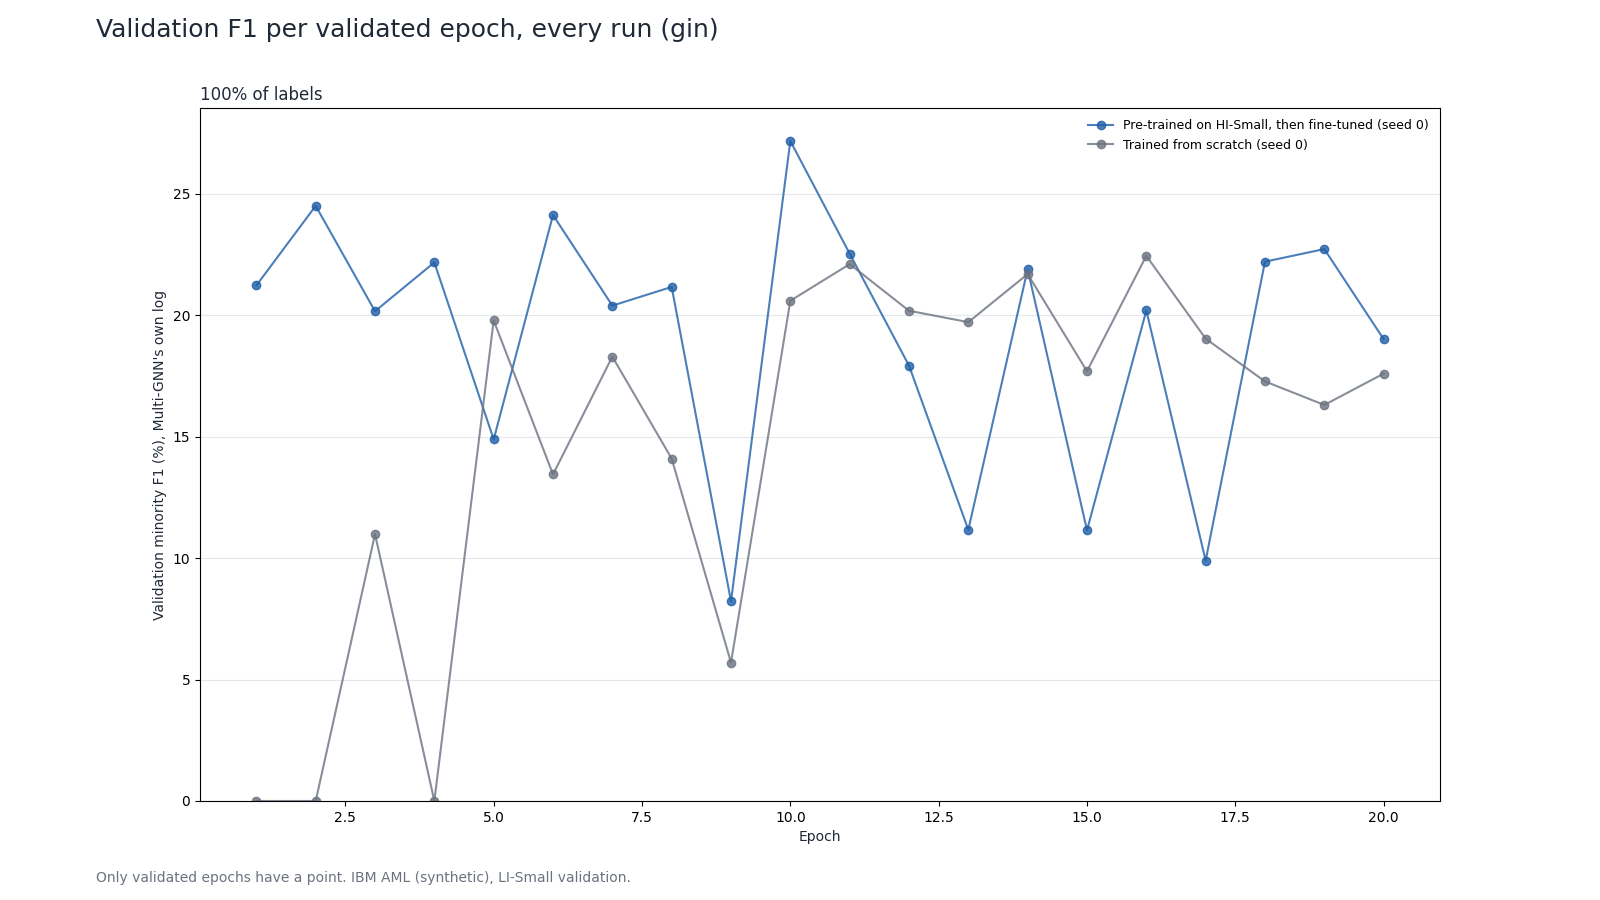
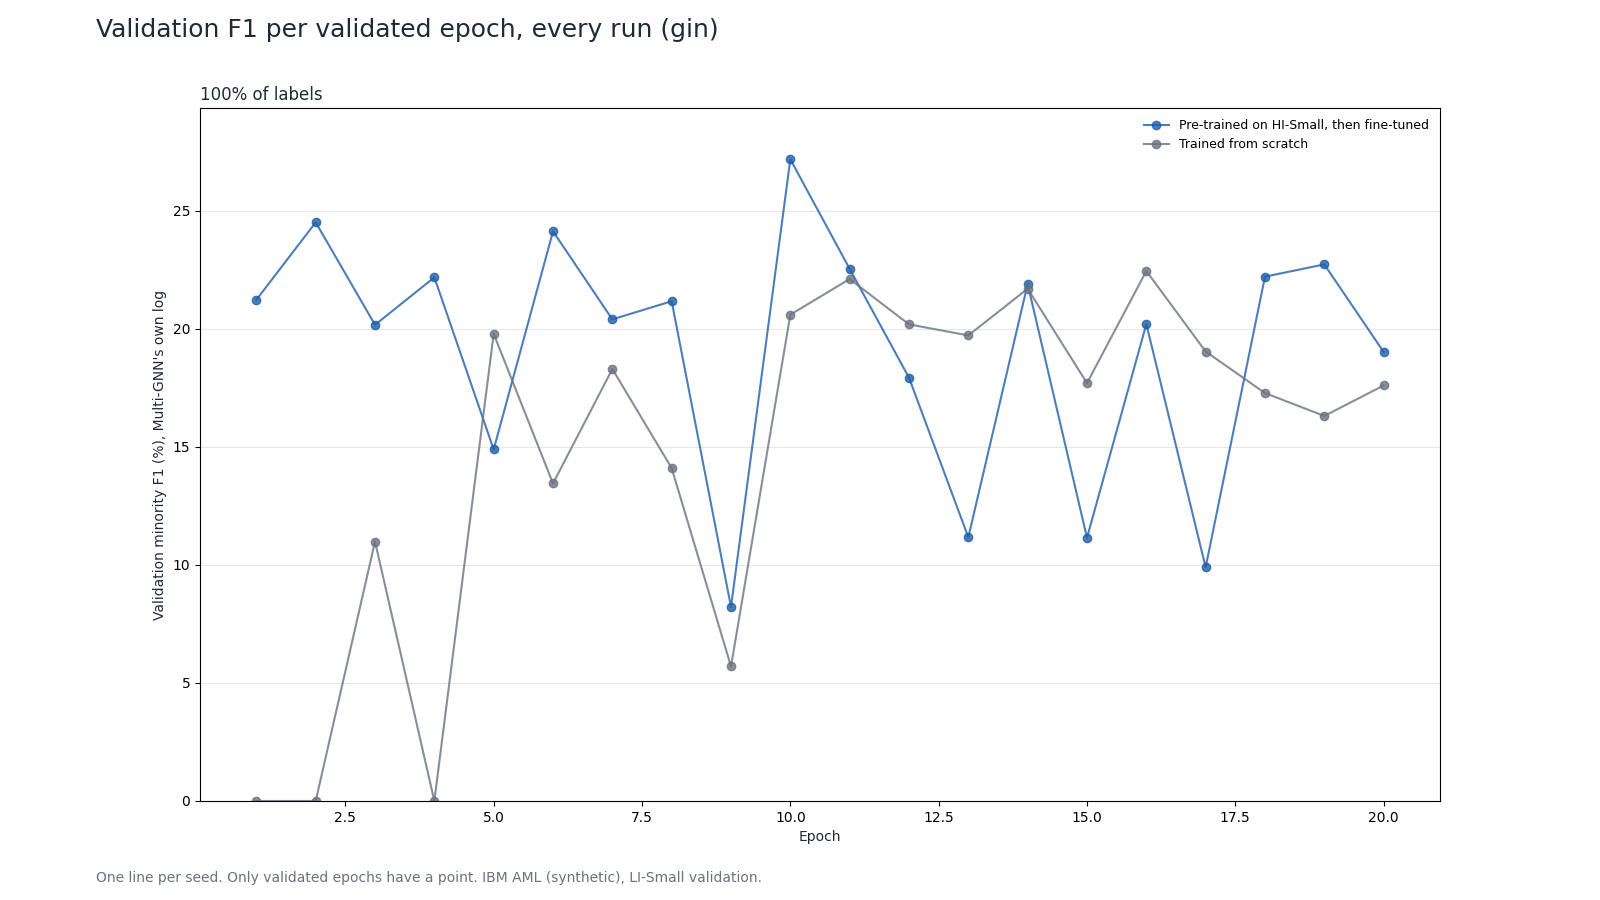
Phase D set up (BUDGET_D=16, 10/25/100%, seed 0); Phase C validation curves rebuilt; fix clipped y-axis in curve chart

diff --git a/tests/test_phases.py b/tests/test_phases.py
@@ -59,8 +59,10 @@ def test_run_counts_per_phase() -> None:
     assert (
         len(phase_runs("phaseC", budget=EXAMPLE_BUDGET)) == 12
     )  # 3 fractions x 2 arms x 2 seeds
-    assert len(phase_runs("phaseD", budget=EXAMPLE_BUDGET)) == 1 + 8  # source + 4 x 2
-    assert len(phase_runs("phaseD", seeds=[0, 1, 2], budget=EXAMPLE_BUDGET)) == 25
+    assert (
+        len(phase_runs("phaseD", budget=EXAMPLE_BUDGET)) == 1 + 6
+    )  # source + 3 fractions x 2 arms
+    assert len(phase_runs("phaseD", seeds=[0, 1, 2], budget=EXAMPLE_BUDGET)) == 1 + 18
 
 
 def test_phase_c_covers_every_fraction_arm_and_seed_once() -> None:
@@ -73,8 +75,9 @@ def test_phase_c_covers_every_fraction_arm_and_seed_once() -> None:
 
 def test_phase_c_and_d_refuse_to_start_while_the_budget_is_not_set(monkeypatch) -> None:
     monkeypatch.setattr(config, "BUDGET_C", None)
+    monkeypatch.setattr(config, "BUDGET_D", None)
     for name in ("phaseC", "phaseD"):
-        with pytest.raises(ValueError, match="BUDGET_C"):
+        with pytest.raises(ValueError, match="BUDGET_"):
             phase_runs(name)
 
 
@@ -87,7 +90,7 @@ def test_phase_d_trains_the_pna_source_model_first_then_the_same_grid() -> None:
     runs = phase_runs("phaseD", budget=EXAMPLE_BUDGET)
     assert runs[0].run_id == "pna_source_f1.0_s0"
     assert {r.model for r in runs} == {"pna"}
-    assert {r.fraction for r in runs[1:]} == set(config.LABEL_FRACTIONS)
+    assert {r.fraction for r in runs[1:]} == set(config.PHASE_D_FRACTIONS)
     assert {r.seed for r in runs} == {0}  # default: one seed
 
 
@@ -145,3 +148,13 @@ def test_phases_that_start_from_the_pilot_source_look_for_it_in_the_pilot_folder
 def test_each_phase_keeps_its_own_records_folder() -> None:
     folders = {phase_folders(n, config.PROJECT_ROOT).records for n in phase_names()}
     assert len(folders) == len(phase_names())
+
+
+def test_phase_d_uses_its_own_budget_and_leaves_phase_cs_alone(monkeypatch) -> None:
+    monkeypatch.setattr(config, "BUDGET_C", 20)
+    monkeypatch.setattr(config, "BUDGET_D", 16)
+    d_runs = phase_runs("phaseD")
+    assert {r.step_budget_epochs for r in d_runs if r.mode != "source"} == {16}
+    assert {r.step_budget_epochs for r in phase_runs("phaseC")} == {20}
+    assert len(d_runs) == 7 and {r.seed for r in d_runs} == {0}
+    assert {r.fraction for r in d_runs if r.mode != "source"} == {0.1, 0.25, 1.0}

diff --git a/src/plot_curves.py b/src/plot_curves.py
@@ -64,10 +64,13 @@ def draw_model(model: str, groups: Dict, path: Path) -> None:
         squeeze=False,
         facecolor="white",
     )
+    highest = 0.0
     for axis, fraction in zip(axes[0], fractions):
         for record, curve in groups[(model, fraction)]:
             xs, ys = [p[0] for p in curve], [100 * p[1] for p in curve]
-            label = SYSTEM_NAMES[record.mode] + " (seed %d)" % record.seed
+            highest = max(highest, max(ys))
+            # One legend entry per system: every seed has its own line.
+            label = SYSTEM_NAMES[record.mode] if fraction == fractions[-1] else None
             axis.plot(
                 xs, ys, marker="o", color=COLOURS[record.mode], alpha=0.8, label=label
             )
@@ -75,12 +78,15 @@ def draw_model(model: str, groups: Dict, path: Path) -> None:
             "%.0f%% of labels" % (100 * fraction), loc="left", color=TEXT_COLOUR
         )
         axis.set_xlabel("Epoch", color=TEXT_COLOUR)
-        axis.set_ylim(bottom=0)
         axis.grid(axis="y", color="#e5e7eb")
+    # Set once for every panel: a limit set inside the loop clipped later panels.
+    axes[0][0].set_ylim(0, highest * 1.08)
     axes[0][0].set_ylabel(
         "Validation minority F1 (%), Multi-GNN's own log", color=TEXT_COLOUR
     )
-    axes[0][-1].legend(frameon=False, fontsize=9)
+    handles, names = axes[0][-1].get_legend_handles_labels()
+    unique = dict(zip(names, handles))
+    axes[0][-1].legend(unique.values(), unique.keys(), frameon=False, fontsize=9)
     figure.suptitle(
         "Validation F1 per validated epoch, every run (%s)" % model,
         x=0.06,
@@ -91,7 +97,8 @@ def draw_model(model: str, groups: Dict, path: Path) -> None:
     figure.text(
         0.06,
         0.02,
-        "Only validated epochs have a point. IBM AML (synthetic), LI-Small validation.",
+        "One line per seed. Only validated epochs have a point. "
+        "IBM AML (synthetic), LI-Small validation.",
         fontsize=10,
         color="#6b7280",
     )

diff --git a/tests/test_collect_plot.py b/tests/test_collect_plot.py
@@ -330,3 +330,23 @@ def test_the_title_says_pre_training_helps_most_when_labels_are_scarce() -> None
             records.append(make_record("scratch", fraction, 0.2 + wobble, seed))
             records.append(make_record("finetune", fraction, 0.2 + gap + wobble, seed))
     assert title_for(records) == "Pre-training helps most when labels are scarce"
+
+
+def test_every_panel_of_the_curve_chart_shares_a_y_axis_that_reaches_the_highest_point(
+    tmp_path: Path, monkeypatch
+) -> None:
+    import matplotlib.pyplot as plt
+
+    from src import plot_curves
+
+    saved = {}
+    monkeypatch.setattr(
+        plt.Figure, "savefig", lambda self, path, **k: saved.update(figure=self)
+    )
+    records_dir = tmp_path / "records"
+    low = make_record("scratch", 0.1, 0.2, validation_curve=[[1, 0.10]])
+    high = make_record("finetune", 1.0, 0.3, validation_curve=[[1, 0.40]])
+    for record in (low, high):
+        write_record(record, records_dir)
+    plot_curves.draw_curves(records_dir, tmp_path)
+    assert saved["figure"].axes[0].get_ylim()[1] >= 40

diff --git a/tools/make_notebooks.py b/tools/make_notebooks.py
@@ -241,7 +241,7 @@ Pick `RUN_SET` in the first cell:
 | `phaseB` | zero-shot: the pilot's GIN source model scored on LI-Small test, no training |
 | `phaseA` | GIN at 100% labels, 20-epoch budget, scratch and fine-tune (ids end `_b20`) |
 | `phaseC` | GIN grid: `PHASE_C_FRACTIONS` x 2 setups x `PHASE_C_SEEDS` (10/25/100%, seeds 0 and 1); needs `BUDGET_C` in `src/config.py`; reuses pilot (budget 8) or Phase A (budget 20) runs |
-| `phaseD` | PNA: trains its HI-Small source model, then the same grid; needs `BUDGET_C` |
+| `phaseD` | PNA: trains its HI-Small source model, then 10/25/100% x 2 setups, seed 0, at `BUDGET_D` (16); each comparison run is expected to pass 3 h, so it needs `ALLOW_LONG_RUNS = True` |
 | `export_curves` | no GPU: rebuilds validation curves for the pilot, Phase A and Phase C from their Multi-GNN logs on Drive, into `<set>/curves/` for `pilot`, `phaseA` and `phaseC` |
 
 Each run prints an estimate before it starts, then its real minutes and Colab units with a running total.

diff --git a/src/config.py b/src/config.py
@@ -174,6 +174,12 @@ PHASE_C_SEEDS: Tuple[int, ...] = (0, 1)
 
 # Phase D: Multi-PNA + EU. One seed by default because PNA is slower than GIN;
 # more seeds can be passed to src.run_phase with --seeds.
+# Phase D budget: 16 = where Phase A's validation curves peaked for GIN (best epochs
+# 10 and 16). PNA is not measured yet; the first PNA run's real time replaces the
+# ASSUMED_PNA_TIME_VS_GIN estimate. Phase D refuses to start if this is None.
+BUDGET_D: Optional[int] = 16
+# Same three label shares as Phase C, to fit the 70 Colab units left.
+PHASE_D_FRACTIONS: Tuple[float, ...] = (0.10, 0.25, 1.00)
 PHASE_D_SEEDS: Tuple[int, ...] = (0,)
 # The PNA source model trains on HI-Small for as many epochs as the GIN one did.
 PHASE_D_SOURCE_EPOCHS = PILOT_SOURCE_EPOCHS

diff --git a/src/phases.py b/src/phases.py
@@ -134,8 +134,8 @@ def require_budget(name: str, budget: Optional[int]) -> int:
     """Stop with a clear message if the budget has not been set yet."""
     if budget is None:
         raise ValueError(
-            "%s needs a step budget and none is set. Set BUDGET_C in src/config.py "
-            "after reading Phase A, then run again." % name
+            "%s needs a step budget and none is set. Set BUDGET_C (Phase C) "
+            "or BUDGET_D (Phase D) in src/config.py, then run again." % name
         )
     return int(budget)
 

diff --git a/README.md b/README.md
@@ -2,7 +2,7 @@
 
 Does pre-training a graph neural network on synthetic AML data reduce how many labelled laundering cases a bank needs?
 
-**Status: pilot, Phases B, A and C done (GIN only, two seeds in Phase C); Phase D (PNA) is built and tested, not yet run.** Phase C is the first answer to RQ2, with only two seeds.
+**Status: pilot, Phases B, A and C done (GIN only, two seeds in Phase C); Phase D (PNA, seed 0, budget 16) is set up, not yet run.** Phase C is the first answer to RQ2, with only two seeds.
 
 Docs: [PRD](PRD.md) · [Architecture](ARCHITECTURE.md) · [Design system](DESIGN_SYSTEM.md) · [Agent instructions](AGENTS.md)
 
@@ -116,7 +116,9 @@ What this does and does not show:
 - **Fine-tuned F1 does not fall with fewer labels here** (29.8 at 10%, 29.6 at 25%), but 10% to 25% is inside the 25% spread (5.7). We have not shown that 10% of the labels is enough.
 - **One source model.** Every fine-tune starts from the same HI-Small model, so pre-training variance is not in the spread.
 - **Test F1 and validation F1 differ.** The table is test. Validation F1 (threshold chosen there) is in `results/summary.csv` as `val_minority_f1`, and the two differ in both directions: validation is higher than test for most scratch runs and lower for most fine-tuned runs.
-- **Validation curves for Phase C are not shown yet.** Five of the ten records hold more curve points than their run had validations (the log of an interrupted run was read whole). The reader is fixed (it keeps only the finished run's epochs); run `RUN_SET = "export_curves"` to rebuild the curves from the Drive logs, and the chart can then be added.
+- **Validation is noisy.** The chart below shows Multi-GNN's own validation F1 for every Phase C run (one line per seed). It swings by 10 points or more between epochs, and some runs fall to 0 after a good start: scratch at 100% (seed 1) is at 0 from epoch 9 on, and fine-tune at 25% (seed 1) is at 0 from epoch 28 to 76. The records score the best saved checkpoint (scratch 100% seed 1: epoch 7), so the table is not hit, but this explains the wide scratch spread.
+
+![Validation F1 per epoch, Phase C](results/phases/phaseC/val_curves_gin.png)
 
 ### Pilot (GIN, one seed): a first look, not a result
 
@@ -181,9 +183,11 @@ All run from `notebooks/colab_runner.ipynb` by setting `RUN_SET` in its first ce
 | `phaseA` (done) | GIN, 100% labels, scratch and fine-tune, budget 20, every epoch validated (ids end `_b20`; the pilot is not touched) | 2 |
 | `phaseC` | GIN, fractions in `PHASE_C_FRACTIONS` (10/25/100%) x scratch/fine-tune x seeds in `PHASE_C_SEEDS` (0, 1), nested label masks, at `BUDGET_C`. Finished pilot runs (budget 8) or Phase A runs (budget 20) are reused when `BUDGET_C` matches, not re-run | 12 (6 to run at budget 8, 12 at 16, 10 at 20) |
 | `export_curves` | No GPU: rebuilds the validation curves of the pilot and Phase A from their Multi-GNN logs on Drive, into `pilot/curves/` and `phaseA/curves/` | 0 |
-| `phaseD` | Train `pna_source_f1.0_s0` on HI-Small (Multi-PNA + EU), then the Phase C grid with PNA; seeds in `PHASE_D_SEEDS` (default 0) | 9 |
+| `phaseD` | Train `pna_source_f1.0_s0` on HI-Small (Multi-PNA + EU, 10 epochs), then 10/25/100% x scratch/fine-tune with PNA at `BUDGET_D` (16), seed 0 (`PHASE_D_FRACTIONS`, `PHASE_D_SEEDS`) | 7 |
 
 `BUDGET_C` is 20 (set after reading Phase A); Phases C and D refuse to start without it. Every run prints an estimate, then its real minutes and Colab units with a running total, and a run expected to pass 3 GPU hours stops unless the owner has approved it (`ALLOW_LONG_RUNS`). A finished run (record with status `completed` or `no_improvement`) is skipped on a re-run, and each finished scratch/fine-tune pair is checked for identical kept labels and equal gradient steps.
+
+Phase D estimate (L4, 1.94 units/h; PNA time is assumed 1.5x GIN, not measured): PNA source about 1.6 h (3.2 units); each of the six comparison runs about 3.5 h (6.8 units), so each needs `ALLOW_LONG_RUNS`; total about 22.7 h and 44 units. If PNA is 2x GIN the total is about 59 units. The first PNA run's real time replaces the assumption.
 
 Tables and charts for any set: `python -m src.collect` then `python -m src.plot --run-set phaseC` (mean ± standard deviation over seeds, one panel per model, plus validation curves for runs that have them).
 
